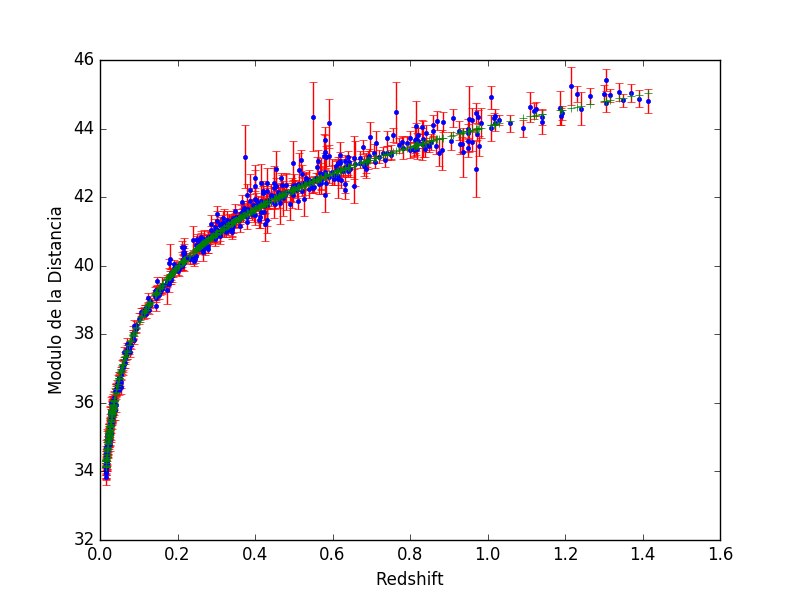
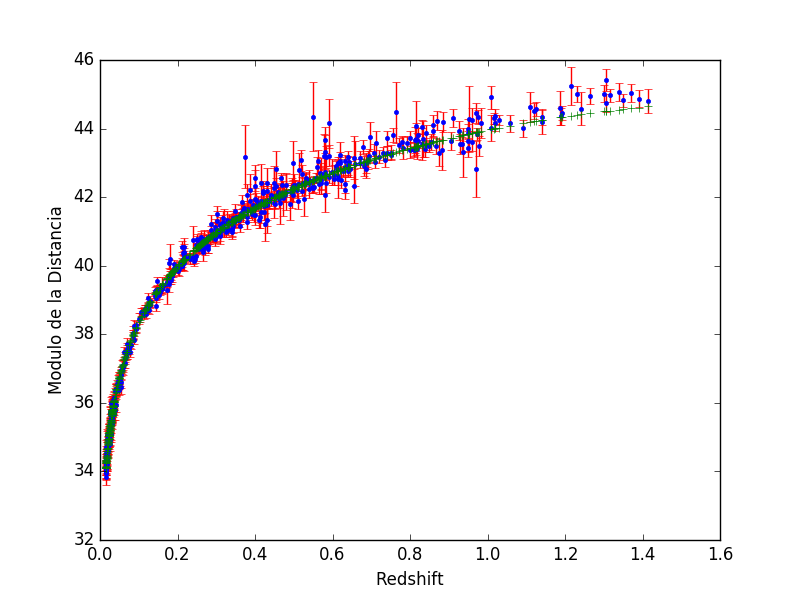
repara errores
un error hacia que se indefiniera una funcion, ahora no hay problemas y
todo funciona ok por ahora

diff --git a/mcsegundointento.py b/mcsegundointento.py
@@ -29,7 +29,7 @@ def EDO(z, DL, p, modelo=0):
     d_de = p[1]
     E = np.zeros(len(z))
     for i in range(len(z)):
-        op = (1 + DL ** 2 * (1 - d_m - d_de))
+        op = np.absolute((1 + DL ** 2 * (1 - d_m - d_de)))
         E[i] = np.sqrt(op) / hub(p, z[i], modelo)
     return E
 
@@ -191,10 +191,10 @@ def monte_carlo(p0, prior_params, N, datos, error=1, d=0.1, modelo=0):
         #posterior_p0 = P_M[4]
         print("contador: "+str(i))
     # guardar datos
-    np.save('d.npy', muestra_met)
-    np.save('e.npy', chi_cuad)
-    np.save('f.npy', a)
-    np.save('g.npy', pasos_aceptados)
+    np.save('densidades.npy', muestra_met)
+    np.save('chi_cuadrado.npy', chi_cuad)
+    np.save('cantidadpasosaceptados.npy', a)
+    np.save('densidadesaceptadas.npy', pasos_aceptados)
     return muestra_met, chi_cuad, a
 
 
@@ -262,9 +262,10 @@ t0 = time.time()
 resultados = monte_carlo(p0, adivinanza1, N, datos, d=0.05)
 tf=time.time()-t0
 print("tiempo: "+str(tf))
-A = np.load('d.npy')
-B = np.load('e.npy')
-C = np.load('f.npy')
+np.save('tiempo.npy', tf)
+A = np.load('densidadesaceptadas.npy')
+B = np.load('chi_cuadrado.npy')
+C = np.load('cantidadpasosaceptados.npy')
 # grafico
 fig = plt.figure()
 fig.clf()

diff --git a/graficosnuevos.py b/graficosnuevos.py
@@ -13,10 +13,10 @@ import time
 from mpl_toolkits.mplot3d import Axes3D
 
 
-A = np.load('d.npy')
-B = np.load('e.npy')
-C = np.load('f.npy')
-D = np.load('g.npy')
+A = np.load('densidades.npy')
+B = np.load('chi_cuadrado.npy')
+C = np.load('cantidadpasosaceptados.npy')
+D = np.load('densidadesaceptadas.npy')
 print A
 print B
 n = len(B)
